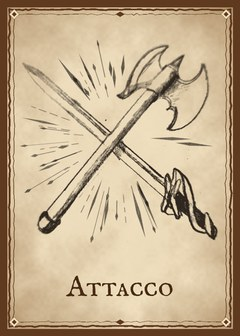
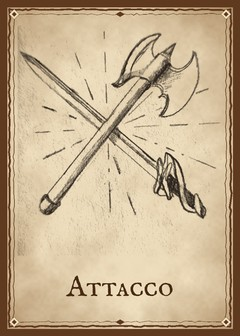
App Alethi: nuovi disegni (Attacco, Conquista, Compra, Fabrial, Tradimento)
Claude-Session: https://claude.ai/code/session_01PzbYS5LykzQyEZuEdpN7Wz

diff --git a/app/sw.js b/app/sw.js
@@ -1,5 +1,5 @@
 // Alethi: funziona anche offline. Cambiare VERSION a ogni aggiornamento.
-const VERSION = 'alethi-v7';
+const VERSION = 'alethi-v8';
 const FILES = ['./', 'index.html', 'style.css', 'engine.js', 'ai.js', 'app.js', 'manifest.webmanifest', "img/abissale.png","img/anim_blue.png","img/anim_purple.png","img/anim_red.png","img/anim_yellow.png","img/apple-touch-icon.png","img/back.jpg","img/bridge.png","img/bridge4.png","img/c0.jpg","img/c1.jpg","img/c10.jpg","img/c11.jpg","img/c12.jpg","img/c13.jpg","img/c14.jpg","img/c15.jpg","img/c16.jpg","img/c17.jpg","img/c18.jpg","img/c19.jpg","img/c2.jpg","img/c3.jpg","img/c4.jpg","img/c5.jpg","img/c6.jpg","img/c7.jpg","img/c8.jpg","img/c9.jpg","img/en/c0.jpg","img/en/c1.jpg","img/en/c2.jpg","img/en/c3.jpg","img/en/c4.jpg","img/en/c5.jpg","img/en/c6.jpg","img/en/c7.jpg","img/en/c8.jpg","img/en/c9.jpg","img/en/c10.jpg","img/en/c11.jpg","img/en/c12.jpg","img/en/c13.jpg","img/en/c14.jpg","img/en/c15.jpg","img/en/c16.jpg","img/en/c17.jpg","img/en/c18.jpg","img/en/c19.jpg","img/crystal.png","img/disc_blue.png","img/disc_purple.png","img/disc_red.png","img/disc_yellow.png","img/heart.png","img/icon-192.png","img/icon-512.png","img/icon-maskable.png","img/node_1.png","img/node_2.png","img/node_3.png","img/node_4.png","img/node_5.png","img/node_6.png","img/parshendi.png","img/plateau_1.jpg","img/plateau_2.jpg","img/plateau_3.jpg","img/plateau_4.jpg","img/plateau_5.jpg","img/plateau_6.jpg","img/shield.png","img/war_blue.png","img/war_purple.png","img/war_red.png","img/war_yellow.png"];
 self.addEventListener('install', e => { e.waitUntil(caches.open(VERSION).then(c => c.addAll(FILES)).then(() => self.skipWaiting())); });
 self.addEventListener('activate', e => { e.waitUntil(caches.keys().then(ks => Promise.all(ks.filter(k => k !== VERSION).map(k => caches.delete(k)))).then(() => self.clients.claim())); });
